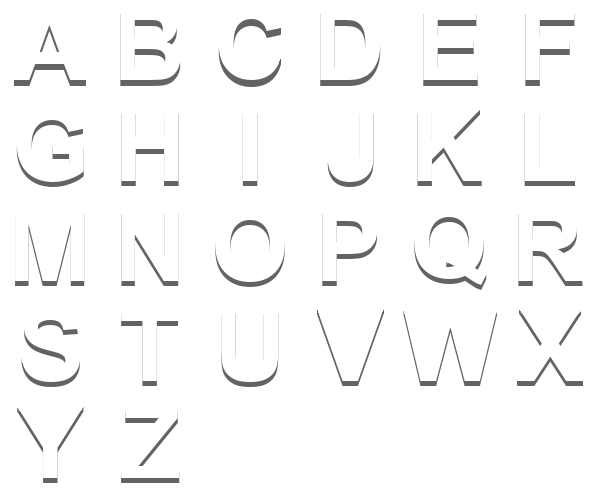
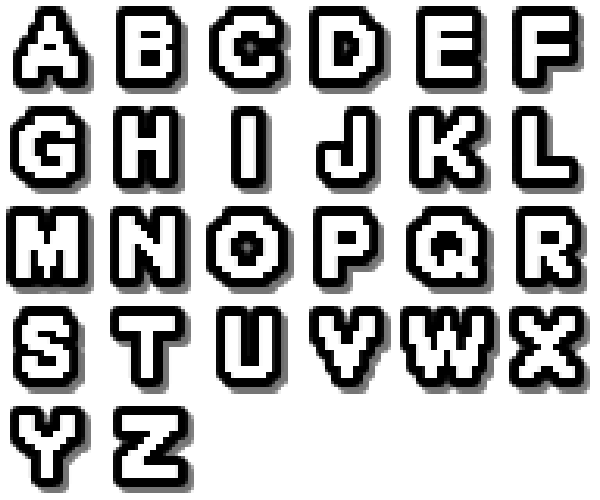
font cambiada y arreglo tuto

diff --git a/src/guessWord.js b/src/guessWord.js
@@ -22,12 +22,11 @@ export default class GuessWord {
         const audio = this.scene.registry.get('audio');
         this.scene.input.keyboard.on('keydown', event => {
             if (!this.scene.gameStarted) return;
-
             let now = event.keyCode;
             // Sonido de letras
             if (this.scene.letterSounds[now - 65] && this.input) audio.playSFX(this.scene.letterSounds[now - 65].key, 0.6);
             if (event.repeat || this.wrongLetterPressed) return;
-
+            
             if ((event.keyCode >= Phaser.Input.Keyboard.KeyCodes.A && event.keyCode <= Phaser.Input.Keyboard.KeyCodes.Z && this.input)) {
                 let letter = this.word[this.lettersWritten];
                 if (letter) {

diff --git a/src/scenes/tutorial.js b/src/scenes/tutorial.js
@@ -19,6 +19,7 @@ export default class Tutorial extends Phaser.Scene {
             let letter = String.fromCharCode(i + 65);
             this.letterSounds.push(this.sound.add(letter));
         }
+        this.gameStarted = true;
     }
 
     create() {
